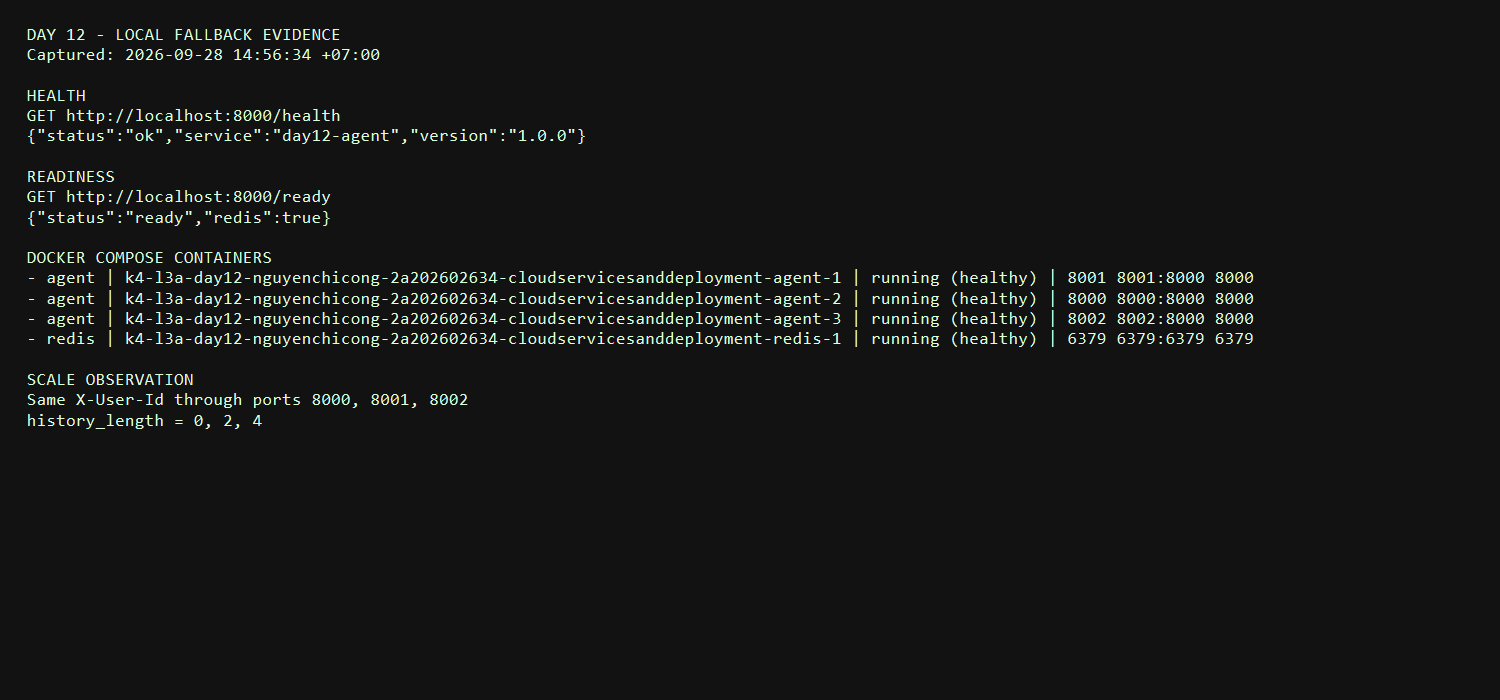
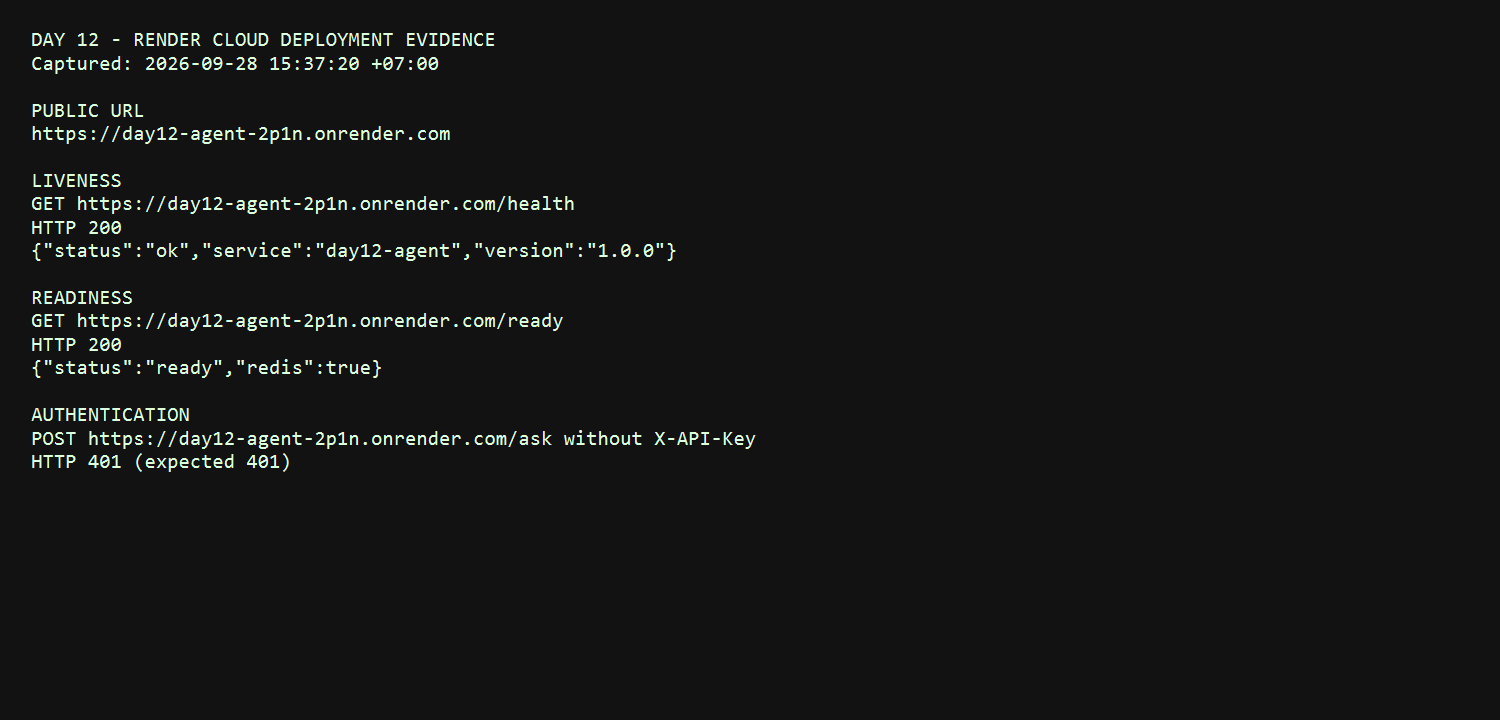
CP5: verify live Render deployment

Changed region(s): [[0.0, 0.24, 0.828, 0.66], [0.0, 0.03, 0.3987, 0.21]]

diff --git a/DEPLOYMENT.md b/DEPLOYMENT.md
@@ -18,9 +18,9 @@
 
 | Mục | Nội dung |
 |-----|----------|
-| Public URL | Chưa có — đang dùng `http://localhost:8000` theo phương án dự phòng |
-| Platform | Docker Compose local fallback; cấu hình Railway và Render đã sẵn sàng |
-| Ngày kiểm tra local | 2026-09-28 |
+| Public URL | https://day12-agent-2p1n.onrender.com |
+| Platform | Render Blueprint |
+| Ngày deploy | 2026-09-28 |
 
 ## Biến Môi Trường Đã Set Trên Cloud
 
@@ -30,7 +30,7 @@ Ghi tên biến và **nguồn giá trị**, không ghi giá trị:
 |------|--------|---------|
 | `PORT` | ✅ | platform tự gán |
 | `AGENT_API_KEY` | ✅ | đặt trong dashboard, không nằm trong repo |
-| `REDIS_URL` | ✅ | Redis service trong Docker Compose (`redis://redis:6379/0`) |
+| `REDIS_URL` | ✅ | Render Key Value `day12-redis`, nối tự động bằng Blueprint |
 | `RATE_LIMIT_PER_MINUTE` | ✅ | 10 |
 | `MONTHLY_BUDGET_USD` | ✅ | 10.0 |
 | `LOG_LEVEL` | ✅ | INFO |
@@ -73,24 +73,17 @@ done; echo
 Dán output của các lệnh trên vào đây:
 
 ```text
-GET /health
+GET https://day12-agent-2p1n.onrender.com/health
 200 {"status":"ok","service":"day12-agent","version":"1.0.0"}
 
-GET /ready
+GET https://day12-agent-2p1n.onrender.com/ready
 200 {"status":"ready","redis":true}
 
-POST /ask không có X-API-Key
+POST https://day12-agent-2p1n.onrender.com/ask không có X-API-Key
 401 {"detail":"invalid or missing API key"}
 
-POST /ask có X-API-Key và X-User-Id
-200; response có answer, user_id, history_length, cost_usd và tokens
-
-Kiểm tra sliding window với user mới
-10 request đầu: 200; request 11 và 12: 429 Too Many Requests
-
-docker compose ps
-3 container agent healthy trên các cổng 8000, 8001, 8002;
-1 container redis healthy trên cổng 6379.
+Kiểm tra có xác thực và rate limit sẽ chạy bằng `DEPLOY_API_KEY` trong `.env`
+cục bộ; giá trị khóa không được ghi vào tài liệu hoặc repository.
 ```
 
 ## Ảnh Chụp Màn Hình
@@ -100,22 +93,3 @@ docker compose ps
 - `screenshots/dashboard.png` — trang quản lý service trên platform
 - `screenshots/health.png` — kết quả gọi `/health` từ trình duyệt hoặc curl
 
----
-
-## Nếu Dùng Phương Án Dự Phòng
-
-Không đăng ký được tài khoản cloud? Vẫn nộp được bài, nhưng CP5 tối đa 60% điểm:
-
-1. Đặt `LOCAL_FALLBACK=true` trong `.env`
-2. Chạy `docker compose up -d` rồi kiểm tra `docker compose ps`
-3. Chụp màn hình vào `screenshots/`
-4. Chạy `pytest tests/test_cp5.py -v` — bộ test sẽ tự chuyển sang kiểm tra
-   `http://localhost:8000`
-5. Ghi rõ lý do không deploy được vào phần dưới đây:
-
-```text
-Chưa có phiên đăng nhập hoặc quyền tạo service trên tài khoản Railway/Render
-trong môi trường làm bài. Vì không thể xác minh một URL cloud thật mà không có
-tài khoản của học viên, bài hiện dùng phương án Docker Compose cục bộ. Không có
-URL, output hay lỗi cloud nào được tạo giả.
-```
